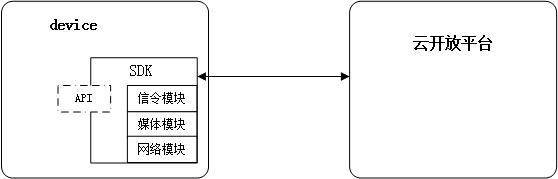
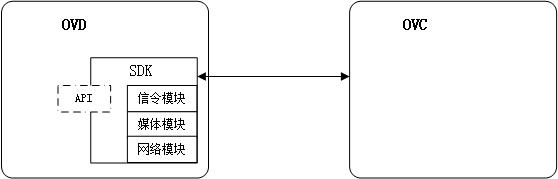
修改sdk使用说明，及更新图

Changed region(s): [[0.7312, 0.1955, 0.8835, 0.2793], [0.0914, 0.0838, 0.1828, 0.1676], [0.7007, 0.0838, 0.7616, 0.1676]]

diff --git a/docs/SDK_guidance.md b/docs/SDK_guidance.md
@@ -1,5 +1,27 @@
-# SDK架构说明及接入方法
-## 一、SDK目录及说明
+# SDK使用说明
+**本文档描述了开放SDK的结构及集成方法，通过本说明，可以了解开放SDK的使用集成方法，可以使用模拟的demo和sample程序了解SDK的集成及使用方法、流程等。**
+
+**名词解释**
+
+- OVS：open video system，开放视频云，一种基于物联网云计算技术的视频云系统；
+  与传统NVR，DVR类似，OVS可以接入和管理各种带视频功能设备，支持直播、录像、点播、P2P实时通信等功能，
+  但是与传统NVR，DVR的不同在于用户可以在互联网上观看视频，
+  并且因为应用了云计算技术，OVS拥有近于无限的接入能力以及海量的并发直播点播请求；OVS主要由OVC与OVD两部分组成。
+
+- OVC：open video cloud，运行在云端的开放视频云平台；
+  提供API接口以及管理网页，用户可以随时通过互联网，以网页、APP、公众号、小程序等方式接入OVC，对其下属的摄像头进行管理，并进行直播点播。
+
+- OVD：open video device, 开放视频设备，安装在客户现场的，具有与OVC通信能力的视频设备，如摄像头，门铃，音箱等，OVD通过“开放协议”接入OVC，并接受OVC的管理。
+
+- Channel：OVD上的视频通道；
+  一般一路摄像头为一条channel。如果OVD为摄像头，则只有一条通道，且通道号必须为0；
+  如果IVT为NVR/DVR，则会有多条通道，每条通道代表一个NVR管理下的摄像头。
+
+
+## 一、 SDK在系统中的位置
+![SDK在系统中的位置](SDKsysarch.jpg)
+
+## 二、SDK目录及说明
 ### 1、目录架构
 	SDK目录架构如下：
 ![SDK目录架构](sdkcontent.png)
@@ -66,6 +88,7 @@
 	src:   放置demo 源码文件, 演示和配置文件
 	Makefile: demo 模块的 Makefile
 	build: 放置demo模块编译生成文件
+    configure： 放置设备参数信息，模拟的音视频源、告警图片、声波/二维码配网的源信息等
 	
 #### 2.7 samples目录
 	功能：samples模块为各自流程的模拟程序，每个子程序可独立执行。提供集成参考。
@@ -95,39 +118,44 @@
 - 若设备需要配网，且在设备在配网成功后，根据获取到的网络配置信息，调用SDK的方法OVD_DeviceBindInfo上报BIND ID。
 - 若前期已经配网成功，建议在网络连接成功后，再调用步骤3，否则SDK连接服务器失败。
 - 建议**保持步骤3的顺序**，因为启动服务后，服务器端可能会立即获取音视频参数，但设备还未上报音视频参数，导致服务器端异常重试，影响体验。
-   
-## 三、接入集成方法
-## 1 详细的接口说明，请见OVD_OpenApi.h
+- 音视频准备推送、音视频停止推送可以在SDK运行过程中，根据OVD情况随时调用。但是在步骤3和步骤5建议保持流程图中的推荐调用方式。
 
-## 2 集成说明
-    1、拷贝ovdOpenApi的include及链接库到工程目录下（若无json库，也需要拷贝jison库）
-    2、接口实现处，引用OVD_OpenApi.h
-    3、Makefile中, -I 引入头文件
-    4、Makefile中,  -l:libovd.a  -lpthread -lstdc++ -lm -lrt  引入lib库
+   
+## 三、SDK接入集成方法
+	1. 拷贝头文件到工程目录下，并在代码中引入OVD_OpenApi.h头文件
+	2. 拷贝相应的libovd.a、libcjson.a（若设备无json库，则需要一起拷贝）到工程目录下
+
     
-## 3 集成SDK编译流程
+### 3 集成SDK编译流程
 	- 集成商首先在config目录下对XXX.config文件对TOOLCHAIN_BIN_PATH, CROSS_COMPILE, CROSS_SYSROOT, CUSTOM_CFLAGS进行修改，适配自己的编译环境
 	- 在主目录上执行TARGET_BUILD=XXX make all ,XXX 为设备型号标识
 
 
 ## 四、demo使用流程
-## 1 编译链接
-1. demo模拟设备运行，其设备本身的参数配置在demo/configure目录下
-2. demo模拟设备时的音视频内容，放置在demo/resource目录下，视频仅支持H264格式，音频仅支持AAC格式
-3. 按照第三部分的第三节“集成SDK编译流程”进行编译
+### 1 运行参数配置
+	1、若需要修改模拟的推送音视频源、模拟的告警图片、声波识别/二维码识别源等，则在configure/resource目录下，提供相应的文件。
+	2、在configure/deviceInfo.ini文件中，根据情况修改设备参数信息，和修改如上步骤1的文件目录及文件名。
 
-## 2 demo执行过程说明
-1. 在demo/build/x86_64/bin目录下执行 ./demo，然后按照提示进行输入，引导程序继续执行
-2. 首先会询问设备本身参数是否在demo/configure目录下准备好，若需要修改参数，请先修改完毕
-3. 准备好设备参数后，输入y，设备进行启动，初始化SDK
-4. 根据如下命令引导demo执行，
-	- 若要推出，请执行quit命令
-	- 执行 pic\_net 或者 wave\_net 进行配置网络
-	- 执行 av_ready，设备准备好音视频参数
-	- 执行 service_ok 通知SDK服务准备好，连接服务器
-	- 如上系列命令成功启动了服务
-	- 执行其他命令触发相关工作
-	- demo执行过程中会有其他日志输出，若需要查看引导命令，请输入任何一个字符，回车即可
+
+### 2 编译链接
+	1、集成商首先在config目录下对XXX.config文件对TOOLCHAIN_BIN_PATH, CROSS_COMPILE, CROSS_SYSROOT, CUSTOM_CFLAGS进行修改，适配自己的编译环境
+	2、在主目录上执行TARGET_BUILD=XXX make all ,XXX 为设备型号标识
+	3、进入demo目录，执行make命令
+	4、编译成功后，生成的可执行文件在demo/build/XXX/bin目录下(xxx为设备编译平台名称)
+
+### 3 demo执行
+	1、在demo/build/XXX/bin目录下执行 ./demo，然后按照提示进行输入，引导程序继续执行
+	2、 首先会询问设备本身参数是否在configure目录下的配置文件是否准备好，若需要修改参数，请先修改完毕
+	3、 准备好设备参数后，输入y，设备进行启动，初始化SDK
+	4、 看到如下引导命令，即SDK启动成功
+	5、 根据如下命令引导demo执行，
+		- 若要推出，请执行quit命令
+		- 执行 pic\_net 或者 wave\_net 进行配置网络
+		- 执行 av_ready，设备准备好音视频参数
+		- 执行 service_ok 通知SDK服务准备好，连接服务器
+		- 如上系列命令成功启动了服务
+		- 执行其他命令触发相关工作
+		- demo执行过程中会有其他日志输出，若需要查看引导命令，请输入任何一个字符，回车即可
 
 
 ![demo引导命令](democmd.bmp)

diff --git a/docs/OVD_OPEN_API.md b/docs/OVD_OPEN_API.md
@@ -2,16 +2,8 @@
 ## 一、设备端开放SDK集成接口说明
 **本文档描述了开放SDK与本地视音频设备之间的交互接口， 通过本说明，本地视音频设备可以通过SDK提供的统一接入能力接入到开放云平台，提供相应的服务及设置。**
 
-   
-## 二、接口文档概述
-## 1 开放SDK在系统中的位置
-![SDK在系统中的位置](SDKsysarch.jpg)
 
-## 2 开放SDK流程简述
-![SDK流程图](SDKflowchart.jpg)
-
-
-## 三、接口详细描述
+## 二、接口详细描述
 ## 1 SDK初始化
 ### 接口描述
 设备上电后调用
@@ -124,10 +116,9 @@
 ### 接口描述
 音视频内容传送结束接口
 ### 接口定义
-**`int OVD_AVPushEnd(int channel,OVDContentType contentType)`**
+**`int OVD_AVPushEnd(int channel)`**
 ### 参数说明：
     [in]channel:         通道号
-    [in]contentType:     准备传送的内容，详见枚举值OVDContentType 音频、视频、音视频
 ### 返回值：
     成功：0
     失败：-1
